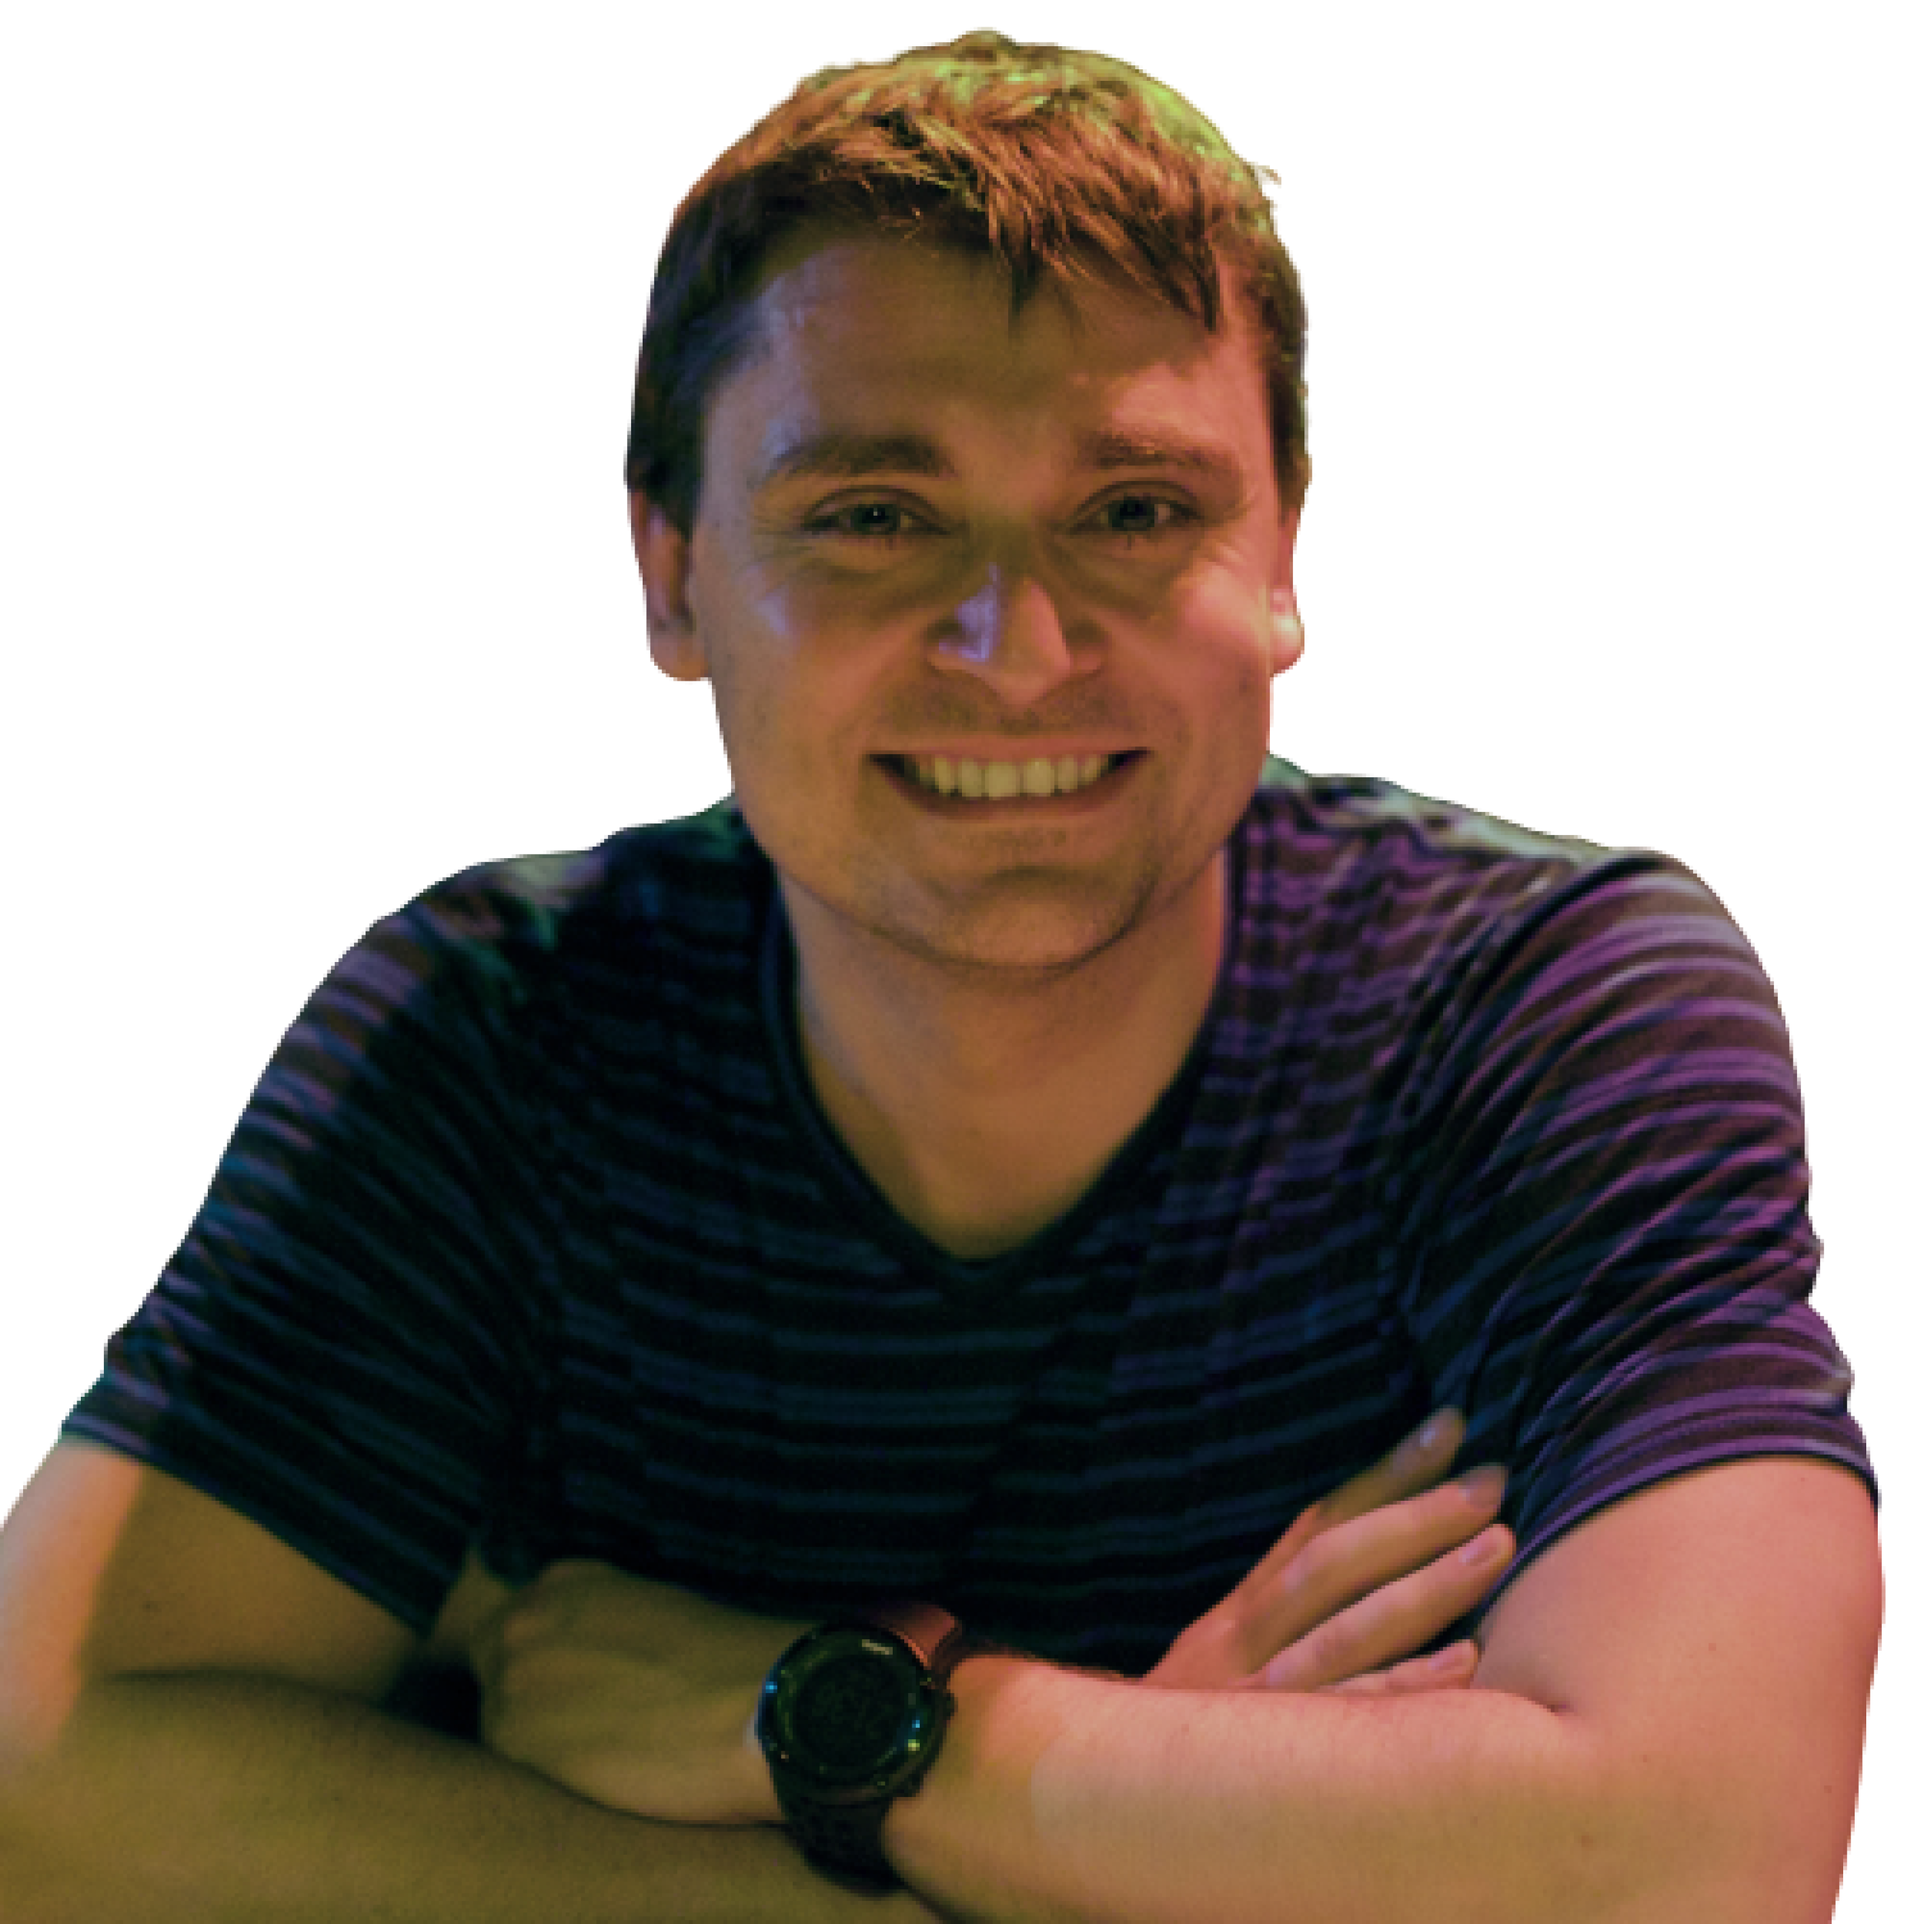
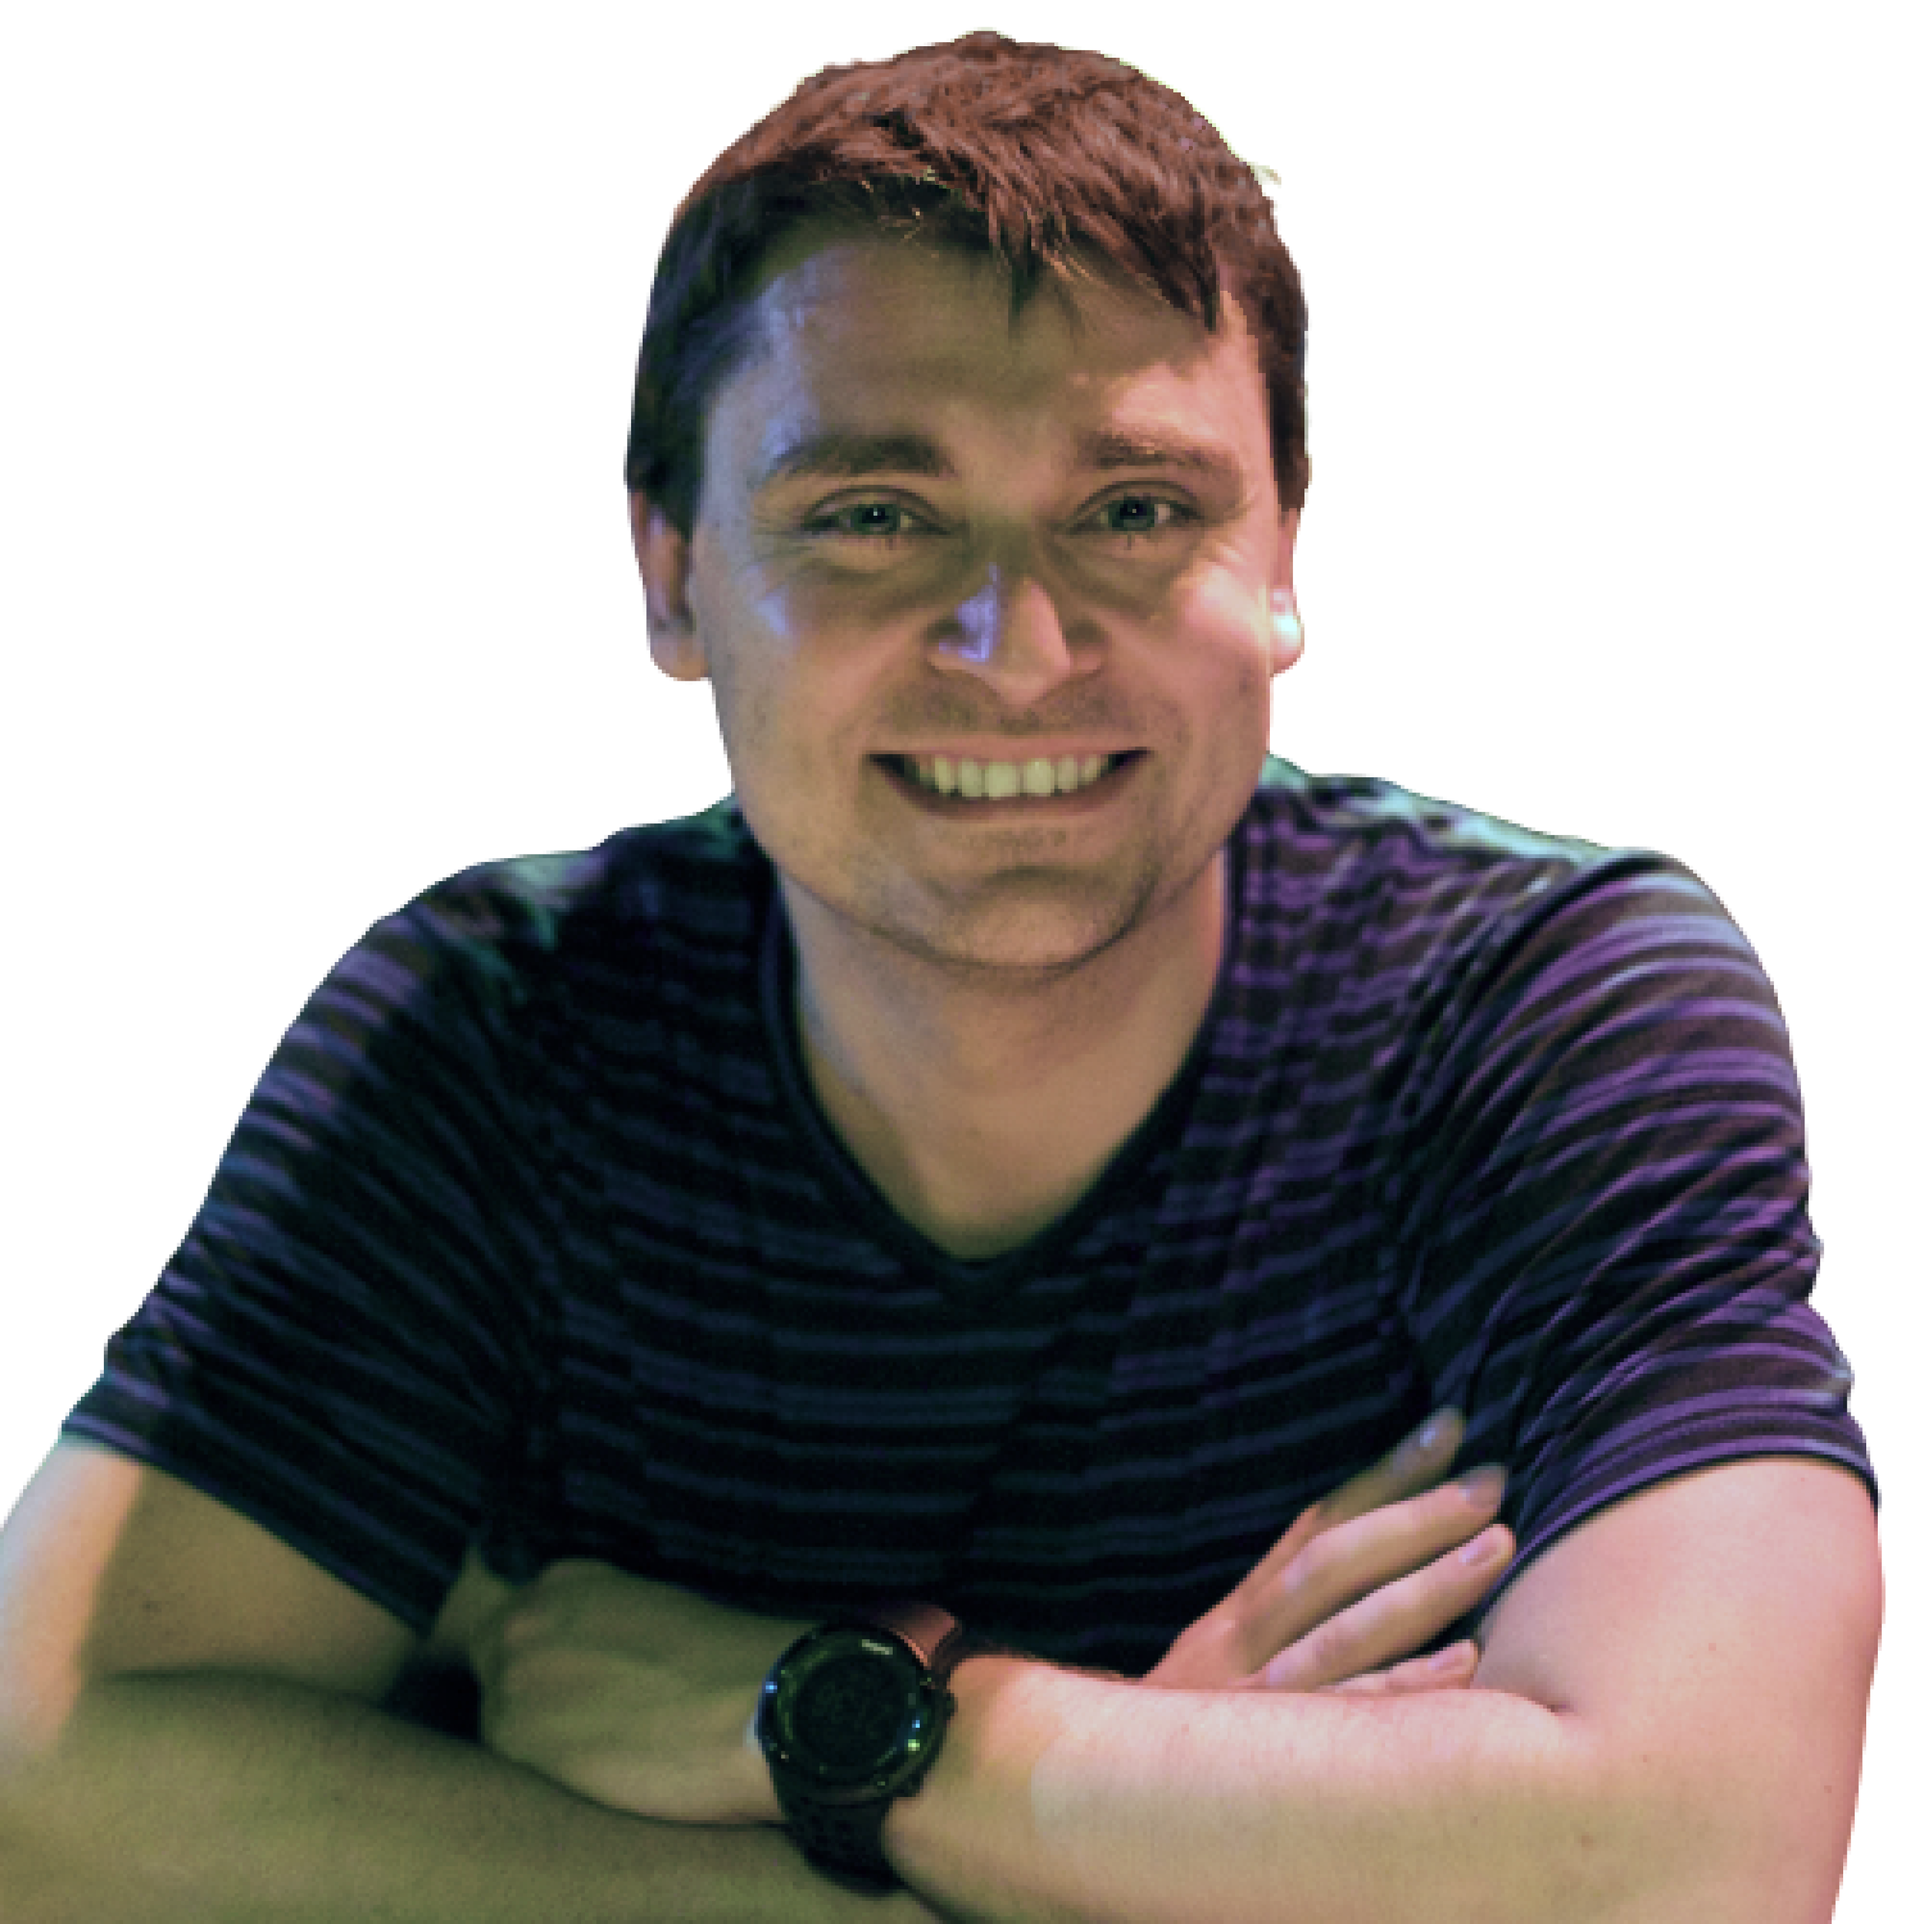
Adjust blob photo, width, and padding.

diff --git a/src/pages/index.js b/src/pages/index.js
@@ -96,7 +96,9 @@ class Index extends React.Component {
                   </ul>
                 </div>
               </div>
-              <img src={Tom} alt="Thumbs up" width='500'/>
+              <div>
+                <img src={Tom} alt="Thumbs up" width='400' className='' style={{padding:'1rem'}}/>
+              </div>
               {/* <img src={CAP} alt="CAP logo" width='300'/> */}
             </div>
           </section>
